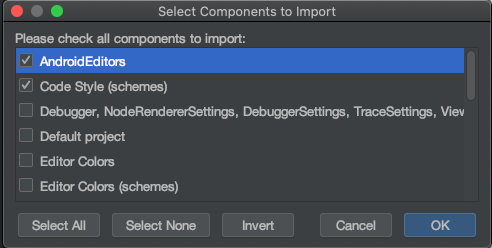
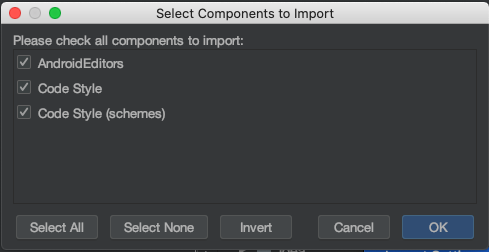
update documentation

Changed region(s): [[0.0, 0.0, 1.0, 1.0], [0.2454, 0.8468, 0.4294, 0.9597], [0.4601, 0.8468, 0.5828, 0.9597]]

diff --git a/styleguide/STYLEGUIDE.md b/styleguide/STYLEGUIDE.md
@@ -13,7 +13,10 @@ The file can be found [here](ddg-settings.zip).
 ![Setting kotlin style screenshot](import_settings_one.png)
 
 * Select the file you just downloaded
-* Import all components required (AndroidEditors and Code Style)
+* Import all components required (AndroidEditors, Code Style and Code Style (schemes))
+![Setting kotlin style screenshot](import_settings_three.png)
+* Select the new scheme on Android Studio -> Preferences... -> Code style -> Schemes: DDG
+![Setting kotlin style screenshot](import_settings_four.png)
 
 ##  Code conventions
 
